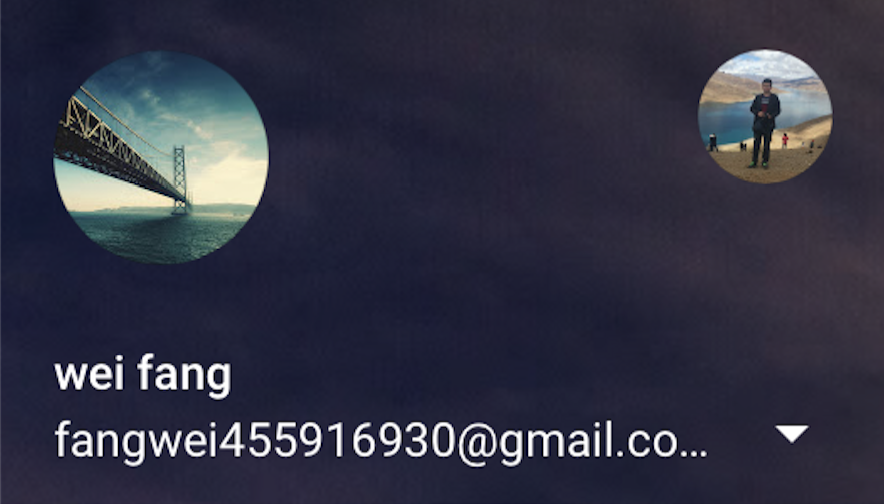
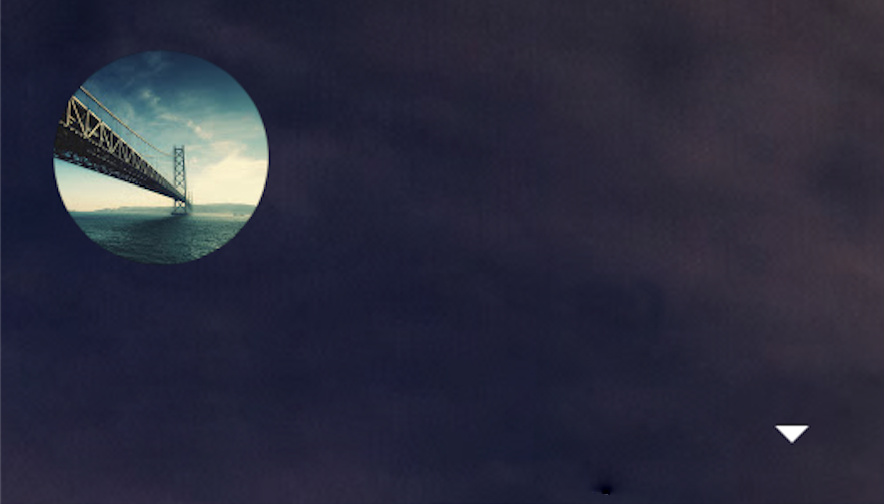
Menu

diff --git a/Demos/views/day8.js b/Demos/views/day8.js
@@ -4,13 +4,253 @@ import React, {Component} from 'react';
 import {
 	StyleSheet,
 	View,
-	Text
+	Text,
+	Image,
+	StatusBar,
+	TouchableHighlight,
+	PanResponder,
+	LayoutAnimation,
+	ScrollView,
 } from 'react-native';
 
-export default class Day extends Component {
+import Icon from 'react-native-vector-icons/FontAwesome';
+import Util from './../common/util';
+import Map from './day5';
+
+class Menu extends Component {
 	render() {
 		return (
-			<View></View>
+			<View style={styles.sideMenuContainer}>
+				<Image source={require('./../image/map.png')} style={styles.img} />
+				<View style={styles.btnContainer}>
+					<TouchableHighlight underlayColor='#888' onPress={() => {true}}>
+						<View style={styles.btn}>
+							<Icon style={styles.btnIcon} name='map-marker' size={15} />
+							<Text style={styles.btnText}>你的地点</Text>
+						</View>
+					</TouchableHighlight>
+					<TouchableHighlight underlayColor='#888' onPress={() => {true}}>
+						<View style={styles.btn}>
+							<Icon style={styles.btnIcon} name='pencil-square' size={15} />
+							<Text style={styles.btnText}>你的贡献</Text>
+						</View>
+					</TouchableHighlight>
+					<TouchableHighlight underlayColor='#888' onPress={() => {true}}>
+						<View style={styles.btn}>
+							<Icon style={styles.btnIcon} name='product-hunt' size={15} />
+							<Text style={styles.btnText}>离线区域</Text>
+						</View>
+					</TouchableHighlight>
+				</View>
+				<View style={styles.btnContainer}>
+					<TouchableHighlight underlayColor='#888' onPress={() => {true}}>
+						<View style={styles.btn}>
+							<Icon style={styles.btnIcon} name='road' size={15} />
+							<Text style={styles.btnText}>实时路况</Text>
+						</View>
+					</TouchableHighlight>
+					<TouchableHighlight underlayColor='#888' onPress={() => {true}}>
+						<View style={styles.btn}>
+							<Icon style={styles.btnIcon} name='bus' size={15} />
+							<Text style={styles.btnText}>公交线路</Text>
+						</View>
+					</TouchableHighlight>
+					<TouchableHighlight underlayColor='#888' onPress={() => {true}}>
+						<View style={styles.btn}>
+							<Icon style={styles.btnIcon} name='bicycle' size={15} />
+							<Text style={styles.btnText}>骑车线路</Text>
+						</View>
+					</TouchableHighlight>
+					<TouchableHighlight underlayColor='#888' onPress={() => {true}}>
+						<View style={styles.btn}>
+							<Icon style={styles.btnIcon} name='photo' size={15} />
+							<Text style={styles.btnText}>卫星图像</Text>
+						</View>
+					</TouchableHighlight>
+					<TouchableHighlight underlayColor='#888' onPress={() => {true}}>
+						<View style={styles.btn}>
+							<Icon style={styles.btnIcon} name='tree' size={15} />
+							<Text style={styles.btnText}>地形</Text>
+						</View>
+					</TouchableHighlight>
+				</View>
+			</View>
 		);
 	}
 }
+
+export default class Day extends Component {
+	constructor(props) {
+	  	super(props);
+	
+	  	this.state = {
+	  		showDrop: false,
+	  	};
+	}
+
+	_previousLeft = -0.7 * Util.size.width - 10;
+	_previousOpacity = 0;
+	_minLeft = -0.7 * Util.size.width - 10;
+	_menuStyles = {};
+	_dropStyles = {};
+	_customLayoutLinear = LayoutAnimation.Presets.linera;
+	menu = (null : ?{ setNativeProps(props: Object): void });
+	drop = (null : ?{ setNativeProps(props: Object): void });
+
+	_updatePosition() {
+		this.menu && this.menu.setNativeProps(this._menuStyles);
+		this.drop && this.drop.setNativeProps(this._dropStyles);
+	}
+
+	_endMove(evt, gestureState) {
+		if (gestureState.vx < 0 || gestureState.dx < 0) {
+			this._menuStyles.style.left = this._minLeft;
+			this._dropStyles.style.opacity = 0;
+			this._previousLeft = this._minLeft;
+			this._previousOpacity = 0;
+			this.setState({
+				showDrop: false,
+			});
+		}
+		if (gestureState.vx > 0 || gestureState.dx > 0) {
+			this._menuStyles.style.left = 0;
+			this._dropStyles.style.opacity = 1;
+			this._previousLeft = 0;
+			this._previousOpacity = 1;
+		}
+		this._updatePosition();
+		LayoutAnimation.configureNext(this._customLayoutLinear);
+	}
+
+	componentWillMount() {
+		this._panResonder = PanResponder.create({
+			onStartShouldSetPanResponder: (evt, gestureState) => true,
+			onMoveShouldSetPanResponder: (evt, gestureState) => {
+				return gestureState.dy / gestureState.dx != 0;
+			},
+			onPanResponderGrant: (evt, gestureState) => {
+				this.setState({
+					showDrop: true,
+				});
+			},
+			onPanResponderMove: (evt, gestureState) => {
+				this._menuStyles.style.left = this._previousLeft + gestureState.dx;
+				this._dropStyles.style.opacity = this._previousOpacity + Math.pow(gestureState.dx/(-this._minLeft), 0.5);
+				if (this._menuStyles.style.left > 0) {
+					this._menuStyles.style.left = 0;
+					this._dropStyles.style.opacity = 1;
+				}
+				if (this._menuStyles.style.left < this._minLeft) {
+					this._menuStyles.style.left = this._minLeft;
+					this._dropStyles.style.opacity = 0;
+				}
+				this._updatePosition();
+				LayoutAnimation.configureNext(this._customLayoutLinear);
+			},
+			onPanResponderTerminationRequest: (evt, gestureState) => true,
+			onPanResponderRelease: (evt, gestureState) => this._endMove(evt, gestureState),
+			onPanResponderTerminate: (evt, gestureState) => this._endMove(evt, gestureState),
+			onShouldBlockNativeResponder: (evt, gestureState) => true,
+		});
+
+		this._menuStyles = {
+			style: {
+				left: this._minLeft,
+			}
+		}
+		this._dropStyles = {
+			style: {
+				opacity: 0,
+			}
+		}
+	}
+
+	componentDidMount() {
+		this._updatePosition();
+		StatusBar.setBarStyle(0);
+	}
+
+	render() {
+		return (
+			<View style={styles.container}>
+				<Map mapType='standard' mapStyle={styles.map} showsUserLocation={false} followUserLocation={false} />
+				{this.state.showDrop ?<View style={styles.drop} ref={(drop) => {this.drop = drop;}}></View>:<View />}
+				<View {...this._panResonder.panHandlers} style={styles.sideMenu} ref={(menu) => {this.menu = menu;}}>
+					<Menu />
+				</View>
+			</View>
+		);
+	}
+}
+
+
+const styles = StyleSheet.create({
+	container: {
+		flex: 1,
+		backgroundColor: '#fff',
+	},
+	map: {
+		width: Util.size.width,
+		height: Util.size.height,
+	},
+	sideMenu: {
+		height: Util.size.height,
+		width: 0.7 * Util.size.width + 20,
+		position: 'absolute',
+		top: 0,
+		backgroundColor: 'transparent',
+		left: -0.7 * Util.size.width - 10,
+	},
+	sideMenuContainer: {
+		height: Util.size.height,
+		width: 0.7 * Util.size.width,
+		backgroundColor: '#fff',
+		shadowColor: '#000',
+		shadowOpacity: 0.3,
+		shadowRadius: 5,
+		shadowOffset: {
+			height: 0,
+			width: 2,
+		},
+	},
+	drop: {
+		height: Util.size.height,
+		width: Util.size.width,
+		position: 'absolute',
+		top: 0,
+		left: 0,
+		opacity: 0,
+		backgroundColor: 'rgba(0, 0, 0, 0.6)',
+	},
+	img: {
+		width: 0.7 * Util.size.width,
+		resizeMode: 'contain',
+		height: 0.7 * Util.size.width / 1.754,
+	},
+	btn: {
+		flexDirection: 'row',
+		alignItems: 'center',
+		paddingTop: 15,
+		paddingBottom: 15,
+		backgroundColor: '#fff',
+	},
+	btnIcon: {
+		flex: 1,
+		textAlign: 'center',
+		color: '#555',
+	},
+	btnText: {
+		flex: 3,
+		fontSize: 14,
+		fontWeight: '500',
+		paddingLeft: 20,
+		color: '#454545',
+	},
+	btnContainer: {
+		paddingTop: 10,
+		borderBottomWidth: Util.pixel,
+		borderBottomColor: '#bbb',
+	}
+});
+
+

diff --git a/Demos/views/day7.js b/Demos/views/day7.js
@@ -135,39 +135,3 @@ const styles = StyleSheet.create({
 		width: 100,
 	},
 });
-
-
-
-
-
-
-
-
-
-
-
-
-
-
-
-
-
-
-
-
-
-
-
-
-
-
-
-
-
-
-
-
-
-
-
-
